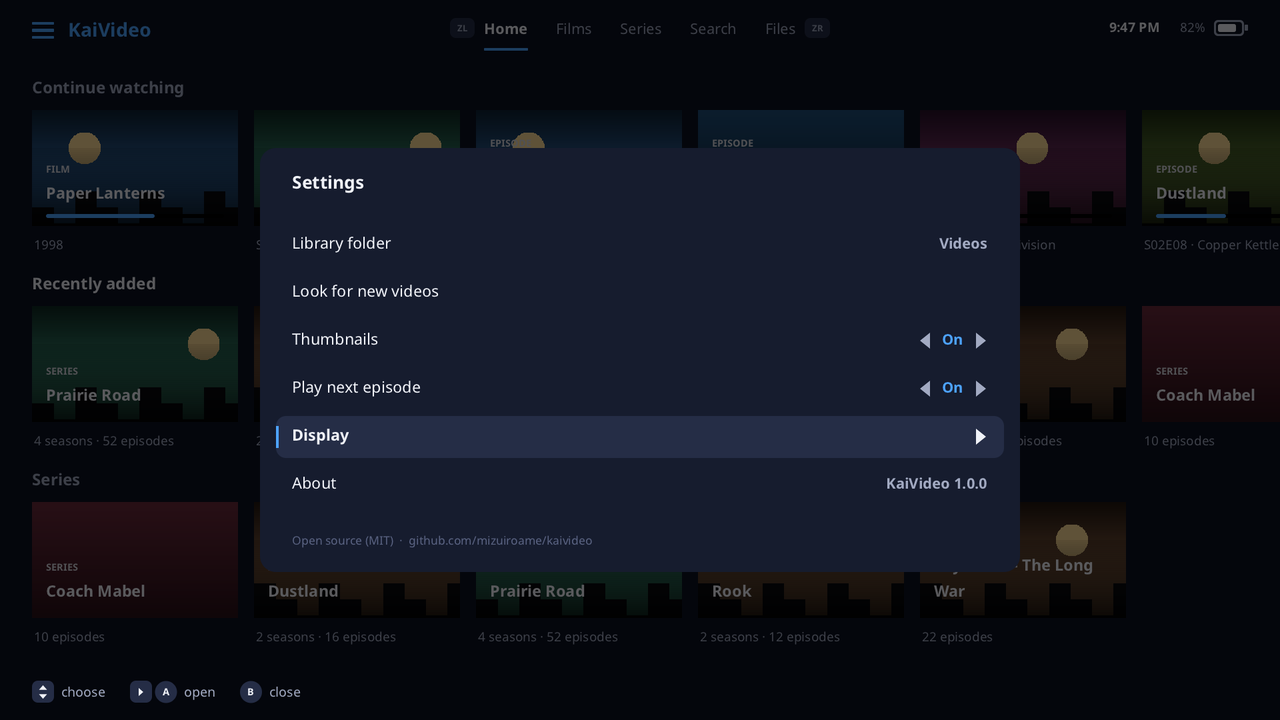
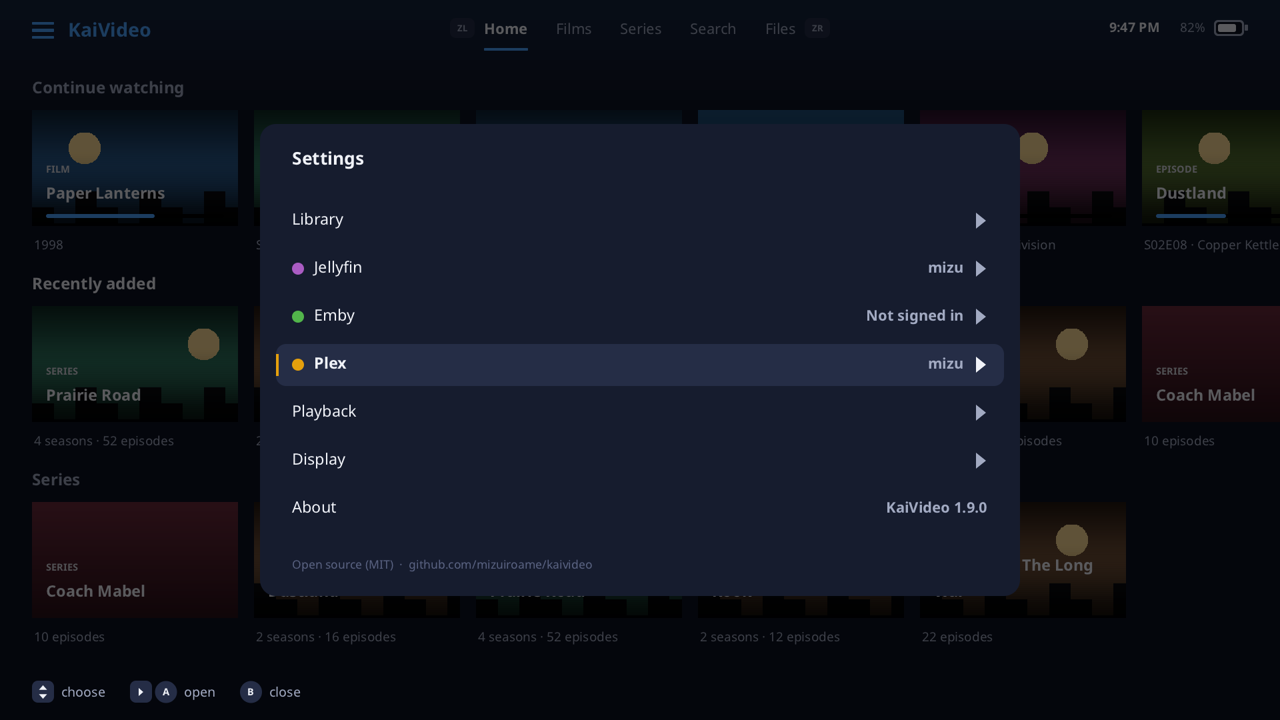
chore: KaiVideo 1.9.0
Settings' screenshot shows its new pages and the three servers.

diff --git a/tests/preview/preview.c b/tests/preview/preview.c
@@ -567,7 +567,7 @@ static void libraryScenes(void)
     uiDrawLibrary(&g_view, &g_lib, &g_home, &g_resume, true, NULL, NULL);
     static const char *const USERS[SERVER_KIND_COUNT] = {"mizu", "", "mizu"};
     uiSettingsSetServers(USERS);
-    uiDrawSettings(&config, SETTINGS_PAGE_MAIN, SETTING_OPEN_PLEX, "sdmc:/Media/Videos", "1.0.0");
+    uiDrawSettings(&config, SETTINGS_PAGE_MAIN, SETTING_OPEN_PLEX, "sdmc:/Media/Videos", "1.9.0");
     uiDrawFooterHelp("[^v] choose  [>][A] open  [B] close");
     save("settings");
     // The main page's rows: 48 high from 76 below the panel's top (7 rows, a 60 footer).
@@ -582,7 +582,7 @@ static void libraryScenes(void)
     }
     begin();
     uiDrawLibrary(&g_view, &g_lib, &g_home, &g_resume, true, NULL, NULL);
-    uiDrawSettings(&config, SETTINGS_PAGE_LIBRARY, SETTING_THUMBNAILS, "sdmc:/Media/Videos", "1.0.0");
+    uiDrawSettings(&config, SETTINGS_PAGE_LIBRARY, SETTING_THUMBNAILS, "sdmc:/Media/Videos", "1.9.0");
     uiDrawFooterHelp("[^v] choose  [<>][A] change  [B] back");
     save("settings_library");
     top = (GFX_HEIGHT - (76 + 3 * 48 + 60)) / 2 + 76;
@@ -593,7 +593,7 @@ static void libraryScenes(void)
     }
     begin();
     uiDrawLibrary(&g_view, &g_lib, &g_home, &g_resume, true, NULL, NULL);
-    uiDrawSettings(&config, SETTINGS_PAGE_DISPLAY, SETTING_THEME, "sdmc:/Media/Videos", "1.0.0");
+    uiDrawSettings(&config, SETTINGS_PAGE_DISPLAY, SETTING_THEME, "sdmc:/Media/Videos", "1.9.0");
     uiDrawFooterHelp("[^v] choose  [<>][A] change  [B] back");
     save("settings_display");
     top = (GFX_HEIGHT - (76 + 5 * 48 + 60)) / 2;
@@ -604,7 +604,7 @@ static void libraryScenes(void)
     begin();
     uiDrawLibrary(&g_view, &g_lib, &g_home, &g_resume, true, NULL, NULL);
     uiSettingsSetJellyfin("192.168.0.10:8096", "");
-    uiDrawSettings(&config, SETTINGS_PAGE_JELLYFIN, SETTING_JF_CODE, "sdmc:/Media/Videos", "1.0.0");
+    uiDrawSettings(&config, SETTINGS_PAGE_JELLYFIN, SETTING_JF_CODE, "sdmc:/Media/Videos", "1.9.0");
     uiDrawFooterHelp("[^v] choose  [<>][A] change  [B] back");
     save("settings_jellyfin");
     top = (GFX_HEIGHT - (76 + 30 + 6 * 48 + 60)) / 2 + 76 + 30;  // A server's page: a line under its title.
@@ -618,7 +618,7 @@ static void libraryScenes(void)
     Config plex_config = config;
     plex_config.server_kind = SERVER_PLEX;
     uiSettingsSetJellyfin("", "");
-    uiDrawSettings(&plex_config, SETTINGS_PAGE_JELLYFIN, SETTING_PLEX_CODE, "sdmc:/Media/Videos", "1.0.0");
+    uiDrawSettings(&plex_config, SETTINGS_PAGE_JELLYFIN, SETTING_PLEX_CODE, "sdmc:/Media/Videos", "1.9.0");
     uiDrawFooterHelp("[^v] choose  [<>][A] change  [B] back");
     save("settings_plex");
     top = (GFX_HEIGHT - (76 + 30 + 1 * 48 + 60)) / 2 + 76 + 30;
